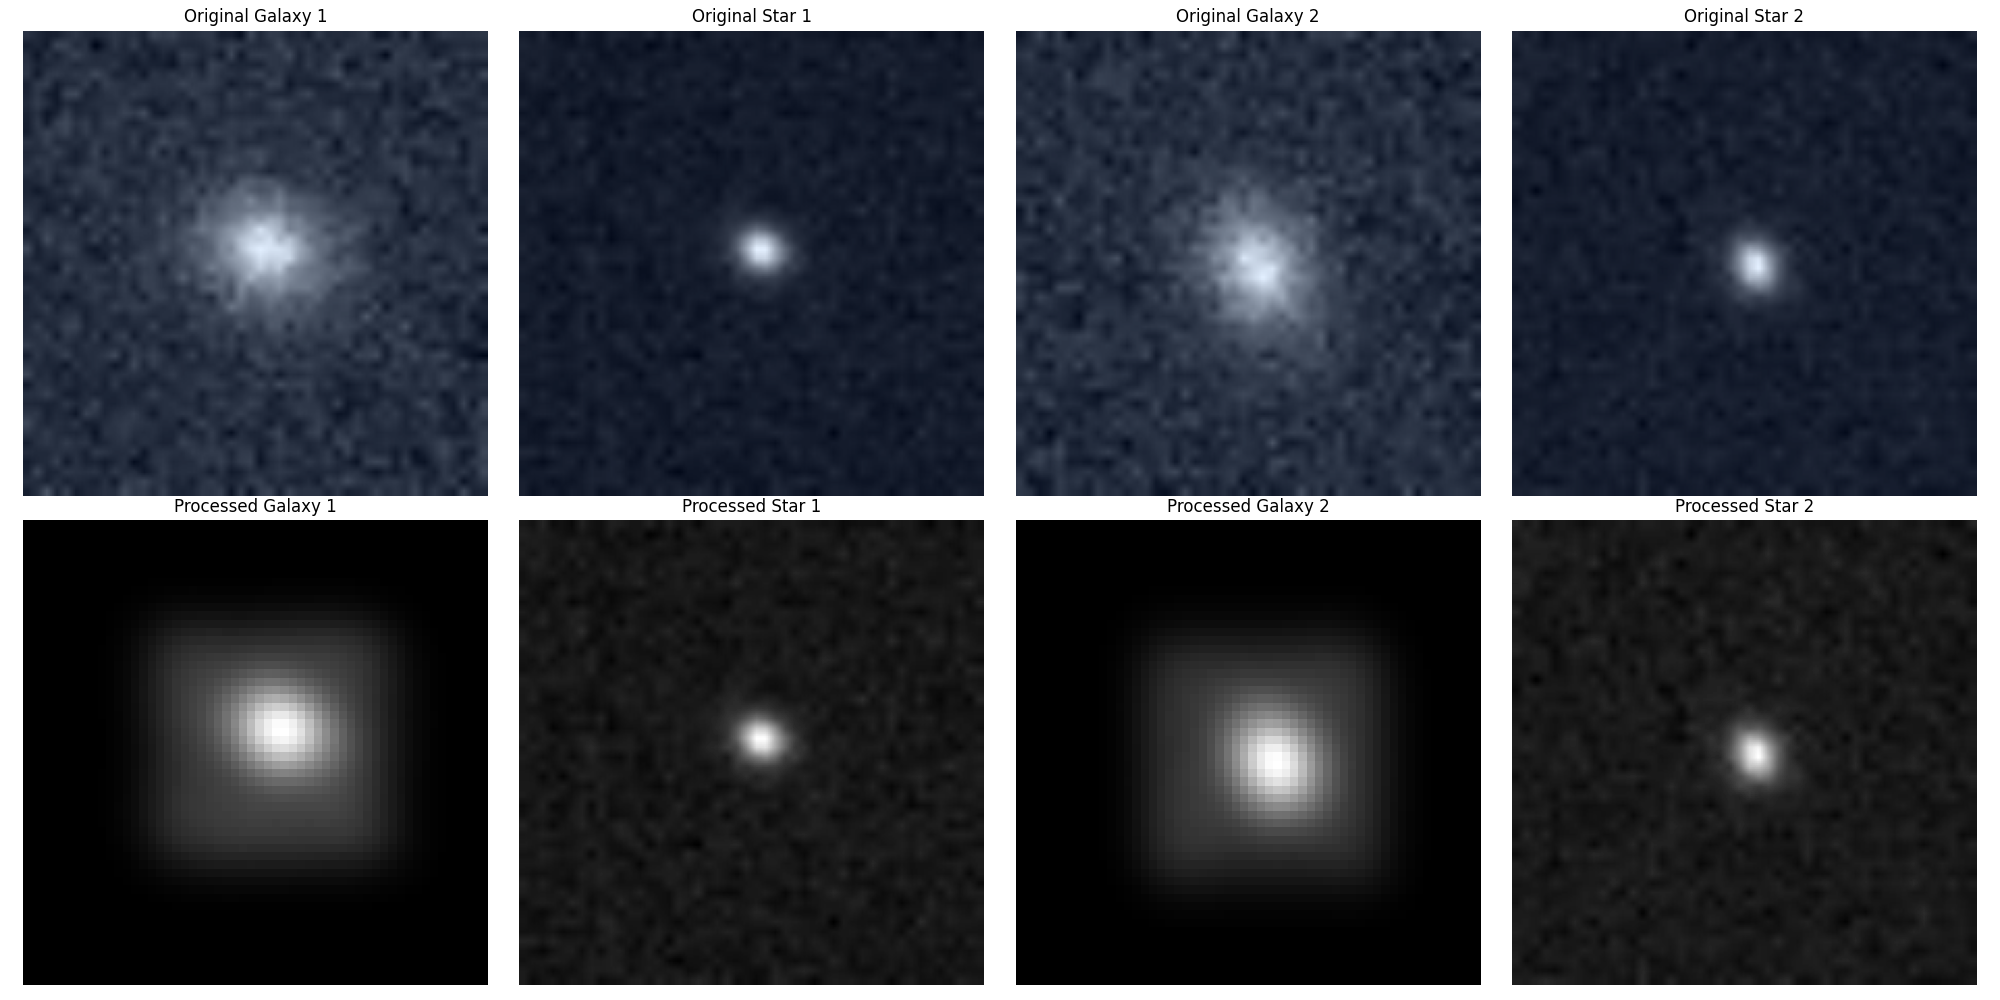
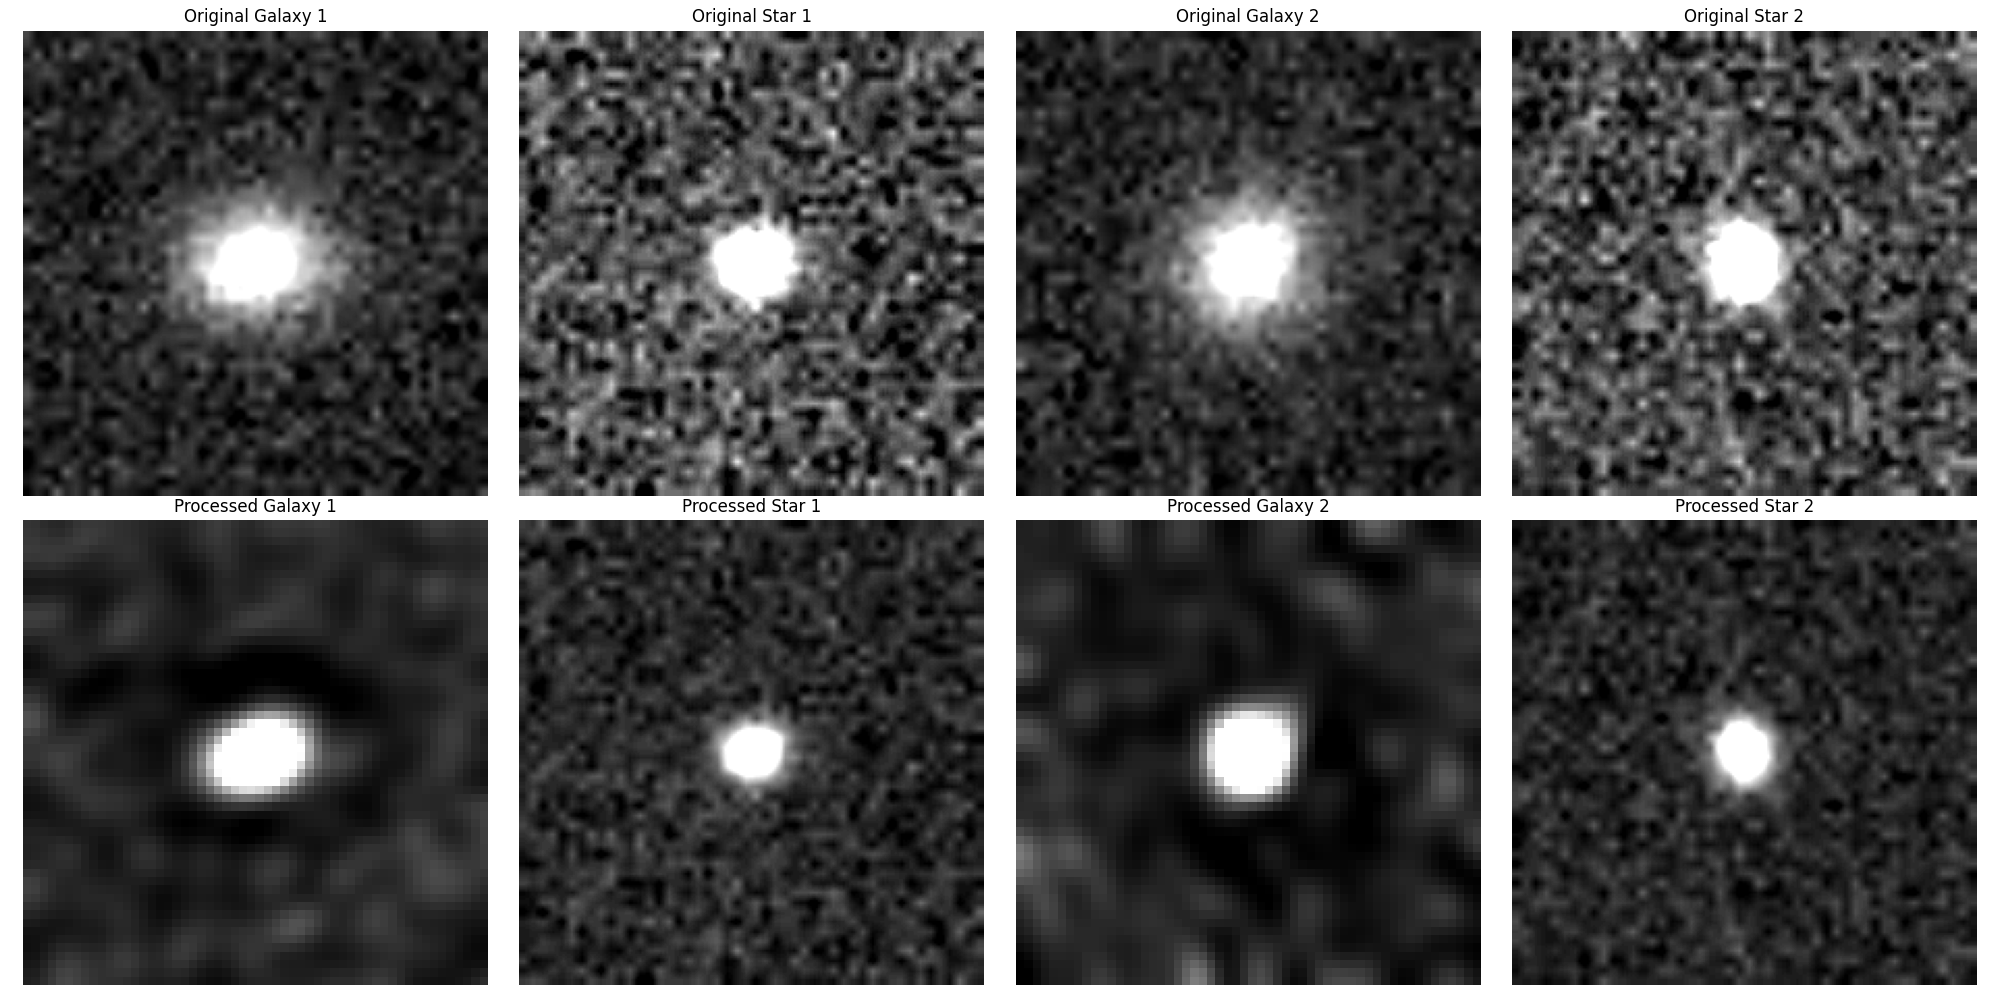
improved preprocessing

diff --git a/src/data/preprocessor.py b/src/data/preprocessor.py
@@ -47,7 +47,7 @@ class ImagePreprocessor:
                                      wavelet='db1', 
                                      mode='soft',
                                      sigma=self.wavelet_sigma,
-                                     multichannel=False,
+                                     channel_axis=None,
                                      convert2ycbcr=False)
         else:
             # Traditional Gaussian denoising
@@ -76,23 +76,33 @@ class ImagePreprocessor:
         return convolved
 
     def extract_psf_kernel(self, star_img):
-        """Enhanced PSF kernel extraction"""
-        # Find the center of the star
-        h, w = star_img.shape
-        center_h, center_w = h // 2, w // 2
+        """Improved PSF kernel extraction"""
+        # Find the center of mass
+        y, x = ndimage.center_of_mass(star_img)
+        y, x = int(y), int(x)
         
-        # Dynamic kernel size based on star FWHM
-        intensity_profile = star_img[center_h, :]
+        # Determine kernel size dynamically
+        intensity_profile = star_img[y, :]
         fwhm = np.sum(intensity_profile > np.max(intensity_profile) * 0.5)
-        kernel_size = max(int(fwhm * 2), 16)  # At least 16 pixels
+        kernel_size = max(int(fwhm * 3), 16)  # Increased size for better PSF capture
         
-        # Extract and normalize kernel
-        k_start_h = center_h - kernel_size // 2
-        k_start_w = center_w - kernel_size // 2
-        kernel = star_img[k_start_h:k_start_h + kernel_size,
-                        k_start_w:k_start_w + kernel_size]
+        # Extract kernel with centering
+        half_size = kernel_size // 2
+        y_start = max(0, y - half_size)
+        y_end = min(star_img.shape[0], y + half_size)
+        x_start = max(0, x - half_size)
+        x_end = min(star_img.shape[1], x + half_size)
         
-        return self.normalize_image(kernel)
+        kernel = star_img[y_start:y_end, x_start:x_end]
+        
+        # Ensure kernel is square
+        kernel = cv2.resize(kernel, (kernel_size, kernel_size), interpolation=cv2.INTER_LANCZOS4)
+        
+        # Normalize and smooth edges
+        kernel = self.normalize_image(kernel)
+        kernel = gaussian(kernel, sigma=0.5, preserve_range=True)
+        
+        return kernel
 
     def handle_pixelization(self, image, kernel_size):
         """Improved pixelization with feature preservation"""

diff --git a/validation.py b/validation.py
@@ -1,4 +1,4 @@
-# validate_pipeline.py
+# validation.py
 import torch
 import matplotlib.pyplot as plt
 import numpy as np
@@ -73,7 +73,12 @@ class PipelineValidator:
         try:
             logging.info("\nStarting preprocessor validation...")
             
-            preprocessor = ImagePreprocessor()
+            # Create preprocessor with optimized parameters
+            preprocessor = ImagePreprocessor(
+                gaussian_sigma=1.0,
+                wavelet_sigma=0.1,
+                preserve_features=True
+            )
             start_time = time.time()
             
             # Process batch
@@ -120,17 +125,25 @@ class PipelineValidator:
             galaxy_img = original_batch['galaxy'][i].cpu()
             star_img = original_batch['star'][i].cpu()
             
-            # Denormalize images for visualization
-            galaxy_img = (galaxy_img - galaxy_img.min()) / (galaxy_img.max() - galaxy_img.min())
-            star_img = (star_img - star_img.min()) / (star_img.max() - star_img.min())
+            # Convert to grayscale for better visualization
+            galaxy_img = 0.299 * galaxy_img[0] + 0.587 * galaxy_img[1] + 0.114 * galaxy_img[2]
+            star_img = 0.299 * star_img[0] + 0.587 * star_img[1] + 0.114 * star_img[2]
             
-            axes[0,i*2].imshow(galaxy_img.permute(1,2,0))
+            # Enhance contrast for visualization
+            def enhance_contrast(img):
+                p2, p98 = torch.quantile(img.flatten(), torch.tensor([0.02, 0.98]))
+                return torch.clamp((img - p2) / (p98 - p2), 0, 1)
+            
+            galaxy_img = enhance_contrast(galaxy_img)
+            star_img = enhance_contrast(star_img)
+            
+            axes[0,i*2].imshow(galaxy_img, cmap='gray')
             axes[0,i*2].set_title(f'Original Galaxy {i+1}')
             
-            axes[0,i*2+1].imshow(star_img.permute(1,2,0))
+            axes[0,i*2+1].imshow(star_img, cmap='gray')
             axes[0,i*2+1].set_title(f'Original Star {i+1}')
             
-            # Processed images are already normalized
+            # Processed images
             axes[1,i*2].imshow(processed_batch['processed_galaxies'][i].cpu(), cmap='gray')
             axes[1,i*2].set_title(f'Processed Galaxy {i+1}')
             
